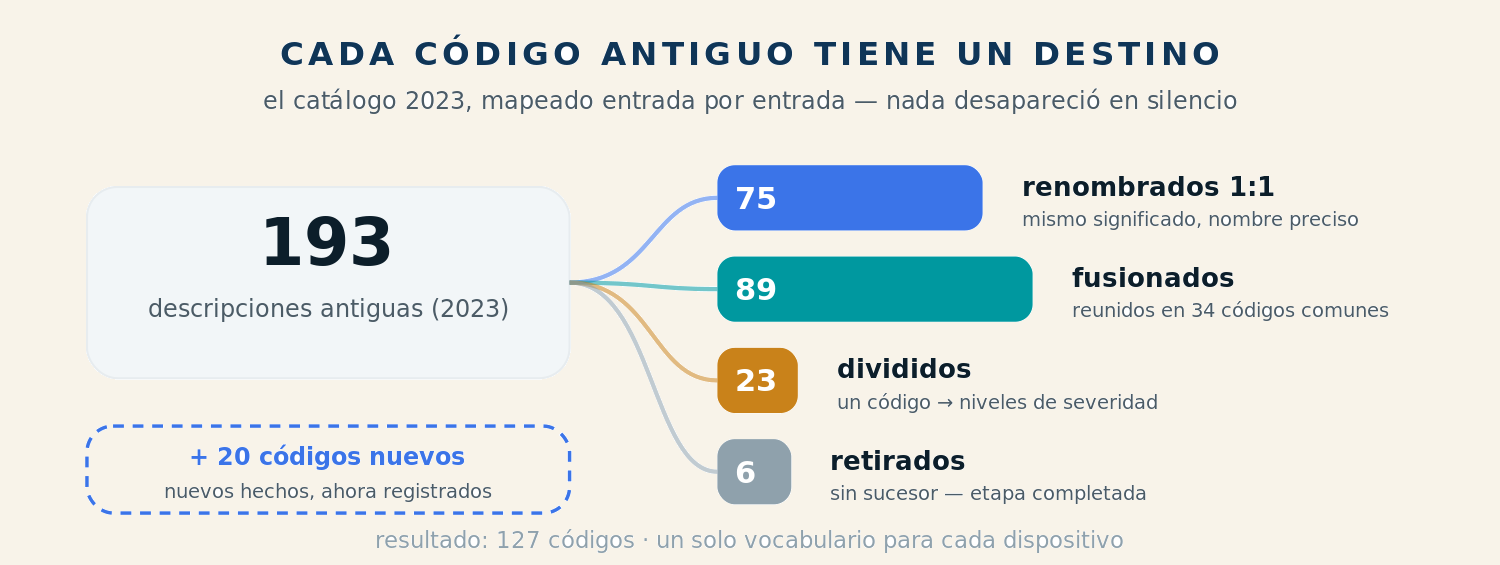
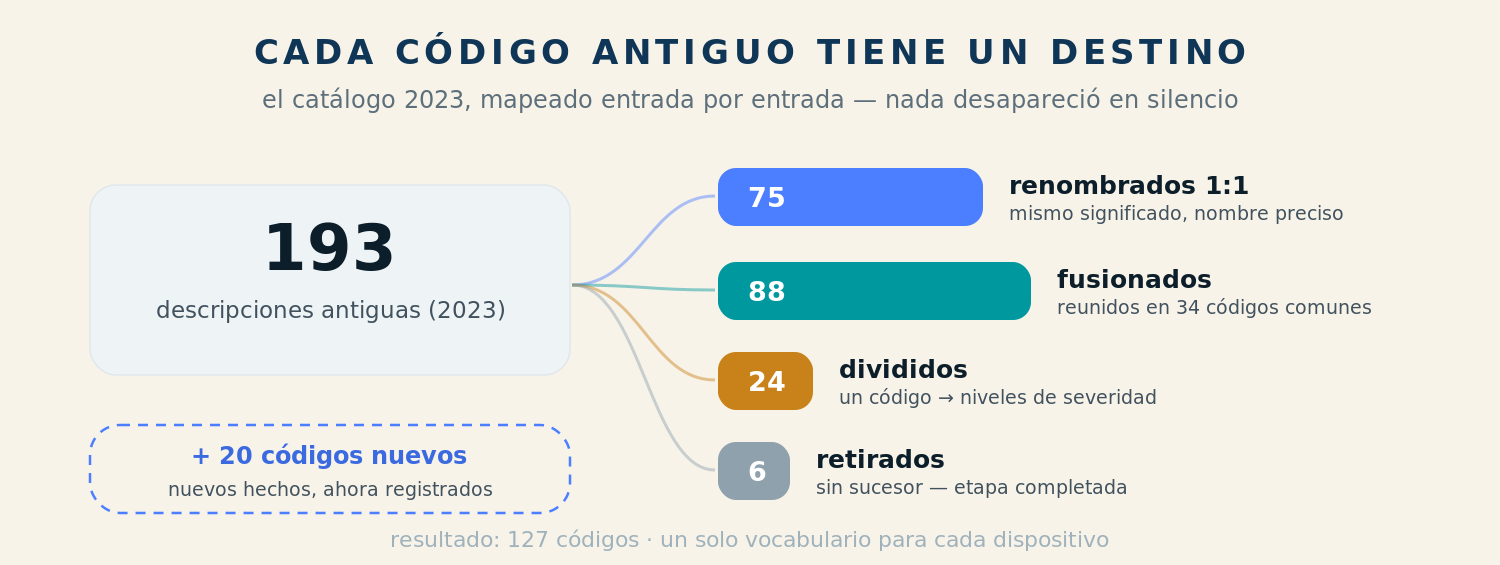
MONA3 counted as split: tallies corrected to 88 merged / 24 split (cards + code-mapping infographics x3, rebuilt on paper bg)

diff --git a/es.html b/es.html
@@ -104,8 +104,8 @@ html.dark{--paper:#121d33;--paperline:#22304d;--ink:#e6ecf7;--mut:#93a3bb;--bg:#
  <h2>El cambio en números</h2>
  <div class="grid3">
   <div class="card"><span class="big">75</span><br>renombrados 1:1 — mismo significado, nombre nuevo y preciso</div>
-  <div class="card"><span class="big">89</span><br>fusionados — casi-duplicados reunidos en un código compartido</div>
-  <div class="card"><span class="big">23</span><br>divididos por severidad — precisión donde importa</div>
+  <div class="card"><span class="big">88</span><br>fusionados — casi-duplicados reunidos en un código compartido</div>
+  <div class="card"><span class="big">24</span><br>divididos por severidad — precisión donde importa</div>
   <div class="card"><span class="big">6</span><br>retirados — etapa completada (adiós, unidades ópticas)</div>
   <div class="card"><span class="big">20</span><br>códigos totalmente nuevos, sin predecesor</div>
   <div class="card"><span class="big">127</span><br>códigos en total — un solo vocabulario para todo dispositivo</div>

diff --git a/it.html b/it.html
@@ -104,8 +104,8 @@ html.dark{--paper:#121d33;--paperline:#22304d;--ink:#e6ecf7;--mut:#93a3bb;--bg:#
  <h2>Il cambiamento in cifre</h2>
  <div class="grid3">
   <div class="card"><span class="big">75</span><br>rinominati 1:1 — stesso significato, nome nuovo e preciso</div>
-  <div class="card"><span class="big">89</span><br>accorpati — quasi-duplicati riuniti in un unico codice condiviso</div>
-  <div class="card"><span class="big">23</span><br>suddivisi per severità — precisione dove conta</div>
+  <div class="card"><span class="big">88</span><br>accorpati — quasi-duplicati riuniti in un unico codice condiviso</div>
+  <div class="card"><span class="big">24</span><br>suddivisi per severità — precisione dove conta</div>
   <div class="card"><span class="big">6</span><br>ritirati — epoca conclusa (addio, unità ottiche)</div>
   <div class="card"><span class="big">20</span><br>codici del tutto nuovi, senza predecessore</div>
   <div class="card"><span class="big">127</span><br>codici totali — un solo vocabolario per ogni tipo di dispositivo</div>

diff --git a/index.html b/index.html
@@ -104,8 +104,8 @@ html.dark{--paper:#121d33;--paperline:#22304d;--ink:#e6ecf7;--mut:#93a3bb;--bg:#
  <h2>The change in numbers</h2>
  <div class="grid3">
   <div class="card"><span class="big">75</span><br>renamed 1:1 — same meaning, precise new name</div>
-  <div class="card"><span class="big">89</span><br>merged — near-duplicates streamlined into one shared code</div>
-  <div class="card"><span class="big">23</span><br>split into severity tiers — precision where it pays</div>
+  <div class="card"><span class="big">88</span><br>merged — near-duplicates streamlined into one shared code</div>
+  <div class="card"><span class="big">24</span><br>split into severity tiers — precision where it pays</div>
   <div class="card"><span class="big">6</span><br>retired — their era complete (farewell, optical drives)</div>
   <div class="card"><span class="big">20</span><br>brand-new codes with no predecessor</div>
   <div class="card"><span class="big">127</span><br>codes total — one vocabulary for every device type</div>
